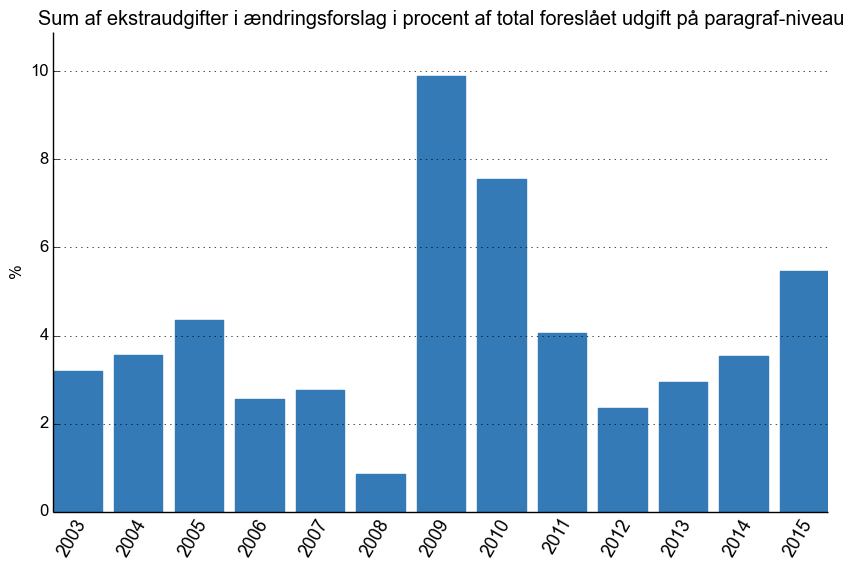
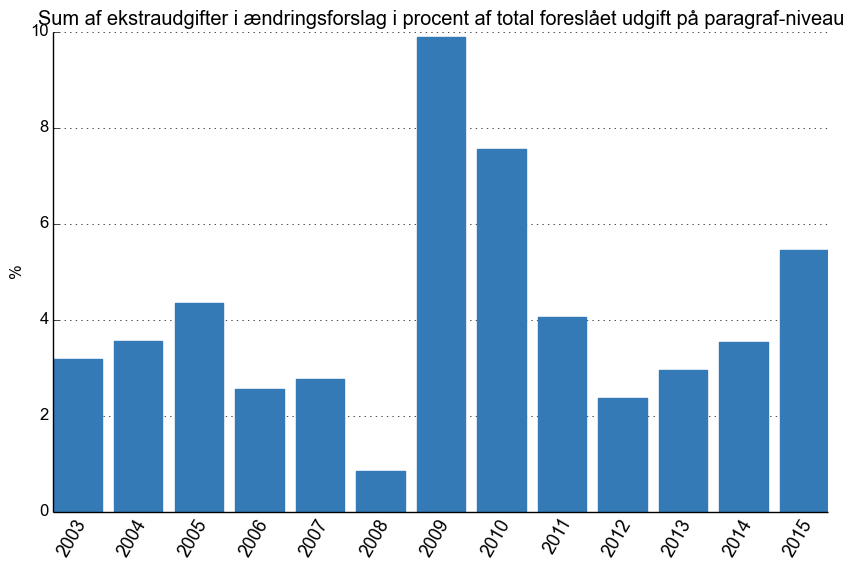
zorder for nicer figures

diff --git a/queen.py b/queen.py
@@ -20,6 +20,7 @@ def simpleaxis(ax):
         ax.spines[spine].set_visible(False)
     for spine in ['bottom', 'left']:
         ax.spines[spine].set_edgecolor(color)
+        ax.spines[spine].set_zorder(20)
     ax.tick_params(color=color, labelcolor=color)
     ax.get_xaxis().tick_bottom()
     ax.get_yaxis().tick_left()
@@ -113,7 +114,7 @@ laSum = np.sum(latinAsiaData, 1)
 
 plt.figure()
 ax = plt.subplot(111)
-plt.bar(range(15), afSum / queenSum, color='#337AB7', edgecolor='#337AB7')
+plt.bar(range(15), afSum / queenSum, color='#337AB7', edgecolor='#337AB7', zorder=10)
 ax.yaxis.grid(True)
 ax.xaxis.set_tick_params(width=0)
 ax.set_xticks(np.linspace(.6, 14.6, 15))
@@ -125,7 +126,7 @@ plt.savefig('img/queen-afrika-total.png', bbox_inches='tight')
 
 plt.figure()
 ax = plt.subplot(111)
-plt.bar(range(14), laSum / queenSum, color='#337AB7', edgecolor='#337AB7')
+plt.bar(range(14), laSum / queenSum, color='#337AB7', edgecolor='#337AB7', zorder=10)
 ax.yaxis.grid(True)
 ax.xaxis.set_tick_params(width=0)
 ax.set_xticks(np.linspace(.6, 13.6, 14))

diff --git a/changes.py b/changes.py
@@ -20,6 +20,7 @@ def simpleaxis(ax):
         ax.spines[spine].set_visible(False)
     for spine in ['bottom', 'left']:
         ax.spines[spine].set_edgecolor(color)
+        ax.spines[spine].set_zorder(20)
     ax.tick_params(color=color, labelcolor=color)
     ax.get_xaxis().tick_bottom()
     ax.get_yaxis().tick_left()
@@ -51,12 +52,12 @@ for y in years:
 
 plt.figure(figsize=(10, 6))
 ax = plt.subplot(111)
-plt.bar(range(len(years)), changeList, color='#337AB7', edgecolor='#337AB7')
+plt.bar(range(len(years)), changeList, color='#337AB7', edgecolor='#337AB7', zorder=10)
 ax.set_xticklabels([str(years[i]) for i in range(len(years))], rotation=60, ha='right', va='top', fontsize=13)
 ax.set_xticks(np.linspace(.6, 12.6, 13))
 ax.yaxis.grid(True)
 ax.xaxis.set_tick_params(width=0)
-plt.axis([0, 12.8, 0, max(changeList) * 1.1])
+plt.axis([0, 12.8, 0, 10])
 plt.title(u'Sum af ekstraudgifter i ændringsforslag i procent af total foreslået udgift på paragraf-niveau')
 plt.ylabel('%')
 simpleaxis(ax)
